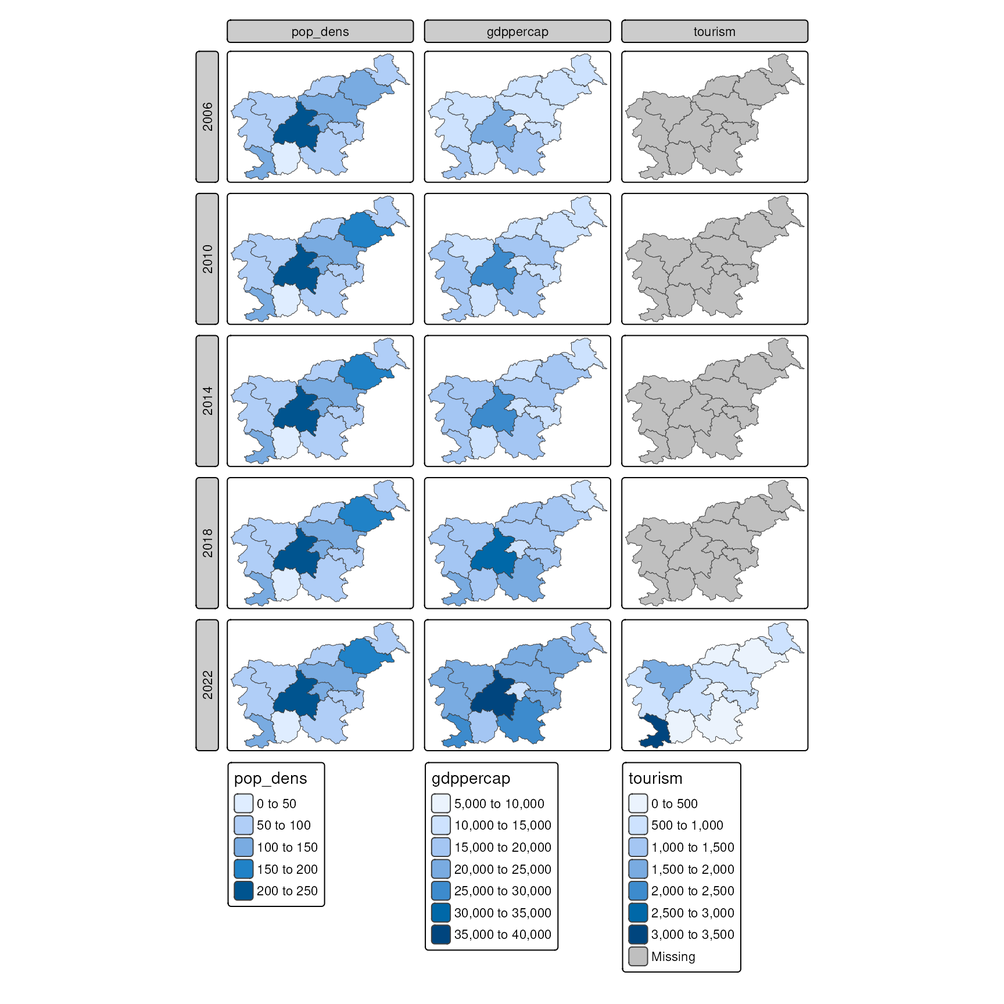
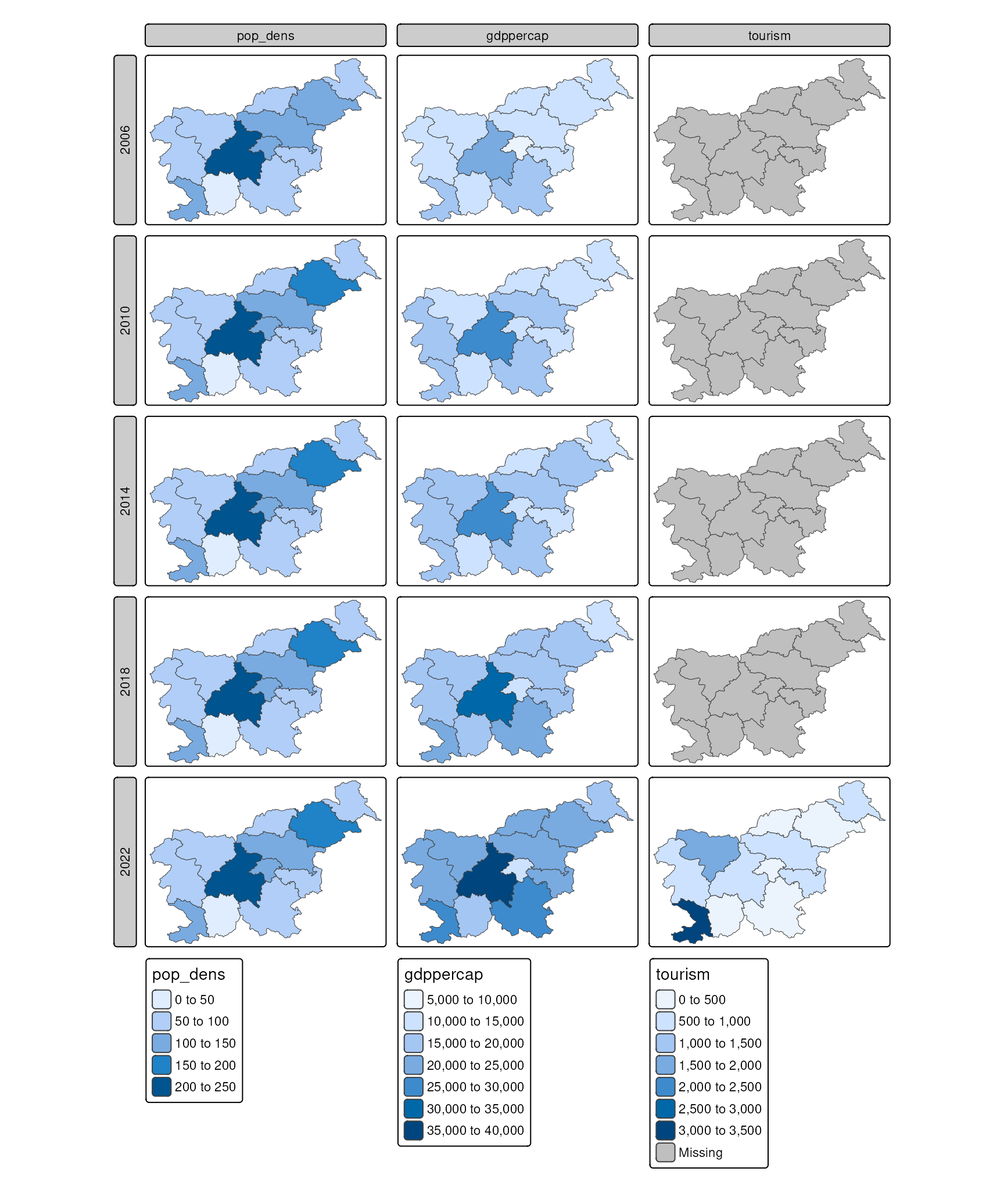
Deploy commit: improves facets code 3 and adds sections e262dc87a8ae26e074a3b7c835bc508db7cef7af

diff --git a/facets.html b/facets.html
@@ -364,8 +364,26 @@ gtag('config', 'G-ER2GMPEJNF', { 'anonymize_ip': true});
 </div>
 </nav><div id="quarto-sidebar-glass" class="quarto-sidebar-collapse-item" data-bs-toggle="collapse" data-bs-target=".quarto-sidebar-collapse-item"></div>
 <!-- margin-sidebar -->
-    <div id="quarto-margin-sidebar" class="sidebar margin-sidebar zindex-bottom">
-        
+    <div id="quarto-margin-sidebar" class="sidebar margin-sidebar">
+        <nav id="TOC" role="doc-toc" class="toc-active"><h2 class="anchored">First Edition</h2>
+  <ul>
+<li><a href="https://geocompx.org/" class="nav-link active" data-scroll-target="https\://geocompx.org/">Visit the geocompx website 🌐</a></li>
+    <li><a href="https://github.com/geocompx/tmap/issues" class="nav-link" data-scroll-target="https\://github.com/geocompx/tmap/issues">Open an issue ❔</a></li>
+    <li><a href="https://discord.gg/PMztXYgNxp" class="nav-link" data-scroll-target="https\://discord.gg/PMztXYgNxp">Chat on Discord 📣</a></li>
+  </ul>
+<hr>
+<h2 id="toc-title">On this page</h2>
+   
+  <ul>
+<li><a href="#specifying-facets" id="toc-specifying-facets" class="nav-link" data-scroll-target="#specifying-facets"><span class="header-section-number">15.1</span> Specifying facets</a></li>
+  <li>
+<a href="#imporance-of-layers-order" id="toc-imporance-of-layers-order" class="nav-link" data-scroll-target="#imporance-of-layers-order"><span class="header-section-number">16</span> Imporance of layers order</a>
+  <ul>
+<li><a href="#facets-types" id="toc-facets-types" class="nav-link" data-scroll-target="#facets-types"><span class="header-section-number">16.1</span> Facets types</a></li>
+  <li><a href="#customizing-facets" id="toc-customizing-facets" class="nav-link" data-scroll-target="#customizing-facets"><span class="header-section-number">16.2</span> Customizing facets</a></li>
+  </ul>
+</li>
+  </ul><div class="toc-actions"><ul><li><a href="https://github.com/geocompx/tmap/edit/main/facets.qmd" class="toc-action"><i class="bi bi-github"></i>Edit this page</a></li></ul></div></nav>
     </div>
 <!-- main -->
 <main class="content" id="quarto-document-content"><header id="title-block-header" class="quarto-title-block default"><nav class="quarto-page-breadcrumbs quarto-title-breadcrumbs d-none d-lg-block" aria-label="breadcrumb"><ol class="breadcrumb"><li class="breadcrumb-item"><a href="./map-projections.html">Expanding the toolbox</a></li><li class="breadcrumb-item"><a href="./facets.html"><span class="chapter-number">15</span>&nbsp; <span class="chapter-title">Facets</span></a></li></ol></nav><div class="quarto-title">
@@ -397,6 +415,8 @@ gtag('config', 'G-ER2GMPEJNF', { 'anonymize_ip': true});
 <!-- two approaches -- variables (e.g., columns) vs values in one variable -->
 <!-- + a mix of both approaches -->
 <!-- should we limit to e.g., 5 years? -->
+<section id="specifying-facets" class="level2" data-number="15.1"><h2 data-number="15.1" class="anchored" data-anchor-id="specifying-facets">
+<span class="header-section-number">15.1</span> Specifying facets</h2>
 <div class="cell" data-layout-align="center">
 <div class="sourceCode" id="cb2"><pre class="downlit sourceCode r code-with-copy"><code class="sourceCode R"><span><span class="fu"><a href="https://r-tmap.github.io/tmap/reference/tm_shape.html">tm_shape</a></span><span class="op">(</span><span class="va">slo_regions</span><span class="op">)</span> <span class="op">+</span></span>
 <span>  <span class="fu"><a href="https://r-tmap.github.io/tmap/reference/tm_polygons.html">tm_polygons</a></span><span class="op">(</span><span class="fu"><a href="https://rdrr.io/r/base/c.html">c</a></span><span class="op">(</span><span class="st">"pop_dens"</span>, <span class="st">"gdppercap"</span>, <span class="st">"tourism"</span><span class="op">)</span><span class="op">)</span></span></code><button title="Copy to Clipboard" class="code-copy-button"><i class="bi"></i></button></pre></div>
@@ -441,6 +461,8 @@ Figure&nbsp;15.3: Facets for multiple variables over time.
 </div>
 </div>
 </div>
+</section><section id="imporance-of-layers-order" class="level1" data-number="16"><h1 data-number="16">
+<span class="header-section-number">16</span> Imporance of layers order</h1>
 <!-- customize -->
 <div class="cell" data-layout-align="center">
 <div class="sourceCode" id="cb5"><pre class="downlit sourceCode r code-with-copy"><code class="sourceCode R"><span><span class="fu"><a href="https://r-tmap.github.io/tmap/reference/tm_shape.html">tm_shape</a></span><span class="op">(</span><span class="va">slo_borders</span><span class="op">)</span> <span class="op">+</span></span>
@@ -454,7 +476,7 @@ Figure&nbsp;15.3: Facets for multiple variables over time.
 <img src="figures/fig-facets4-1.png" class="img-fluid quarto-figure quarto-figure-center figure-img" style="width:100.0%">
 </div>
 <figcaption class="quarto-float-caption-bottom quarto-float-caption quarto-float-fig" id="fig-facets4-caption-0ceaefa1-69ba-4598-a22c-09a6ac19f8ca">
-Figure&nbsp;15.4: Facets for one variable for different region groups.
+Figure&nbsp;16.1: Facets for one variable for different region groups.
 </figcaption></figure>
 </div>
 </div>
@@ -471,7 +493,7 @@ Figure&nbsp;15.4: Facets for one variable for different region groups.
 <img src="figures/fig-facets5-1.png" class="img-fluid quarto-figure quarto-figure-center figure-img" style="width:100.0%">
 </div>
 <figcaption class="quarto-float-caption-bottom quarto-float-caption quarto-float-fig" id="fig-facets5-caption-0ceaefa1-69ba-4598-a22c-09a6ac19f8ca">
-Figure&nbsp;15.5: Facets for one variable limiting the view to a specific region group.
+Figure&nbsp;16.2: Facets for one variable limiting the view to a specific region group.
 </figcaption></figure>
 </div>
 </div>
@@ -484,6 +506,8 @@ Figure&nbsp;15.5: Facets for one variable limiting the view to a specific region
 <span>  <span class="fu"><a href="https://r-tmap.github.io/tmap/reference/tm_shape.html">tm_shape</a></span><span class="op">(</span><span class="va">slo_borders</span><span class="op">)</span> <span class="op">+</span></span>
 <span>  <span class="fu"><a href="https://r-tmap.github.io/tmap/reference/tm_polygons.html">tm_borders</a></span><span class="op">(</span><span class="op">)</span></span></code><button title="Copy to Clipboard" class="code-copy-button"><i class="bi"></i></button></pre></div>
 </div>
+<section id="facets-types" class="level2" data-number="16.1"><h2 data-number="16.1" class="anchored" data-anchor-id="facets-types">
+<span class="header-section-number">16.1</span> Facets types</h2>
 <!-- other facets functions -->
 <!-- tm_facets_wrap(by = "VARS__", nrow = NA, ncol = NA, byrow = TRUE, ...) -->
 <!-- tm_facets_grid(rows = NULL, columns = NULL, pages = NULL, ...) -->
@@ -492,14 +516,15 @@ Figure&nbsp;15.5: Facets for one variable limiting the view to a specific region
 <span>  <span class="fu"><a href="https://r-tmap.github.io/tmap/reference/tm_polygons.html">tm_borders</a></span><span class="op">(</span><span class="op">)</span> <span class="op">+</span></span>
 <span>  <span class="fu"><a href="https://r-tmap.github.io/tmap/reference/tm_shape.html">tm_shape</a></span><span class="op">(</span><span class="va">slo_regions_ts</span><span class="op">)</span> <span class="op">+</span></span>
 <span>  <span class="fu"><a href="https://r-tmap.github.io/tmap/reference/tm_polygons.html">tm_polygons</a></span><span class="op">(</span><span class="st">"gdppercap"</span><span class="op">)</span> <span class="op">+</span></span>
-<span>  <span class="fu"><a href="https://r-tmap.github.io/tmap/reference/tm_facets.html">tm_facets_wrap</a></span><span class="op">(</span>by <span class="op">=</span> <span class="st">"region_group"</span>, ncol <span class="op">=</span> <span class="fl">5</span><span class="op">)</span></span>
-<span><span class="co">#&gt; [plot mode] fit legend/component: Some legend items or map compoments do not</span></span>
-<span><span class="co">#&gt; fit well, and are therefore rescaled.</span></span>
-<span><span class="co">#&gt; ℹ Set the tmap option `component.autoscale = FALSE` to disable rescaling.</span></span></code><button title="Copy to Clipboard" class="code-copy-button"><i class="bi"></i></button></pre></div>
+<span>  <span class="fu"><a href="https://r-tmap.github.io/tmap/reference/tm_facets.html">tm_facets_wrap</a></span><span class="op">(</span>by <span class="op">=</span> <span class="st">"region_group"</span>, nrow <span class="op">=</span> <span class="fl">2</span><span class="op">)</span></span></code><button title="Copy to Clipboard" class="code-copy-button"><i class="bi"></i></button></pre></div>
 <div class="cell-output-display">
-<div class="quarto-figure quarto-figure-center">
-<figure class="figure"><p><img src="figures/facets-9-1.png" class="img-fluid quarto-figure quarto-figure-center figure-img" style="width:100.0%"></p>
-</figure>
+<div id="fig-facets7" class="quarto-float quarto-figure quarto-figure-center anchored" data-fig-align="center">
+<figure class="quarto-float quarto-float-fig figure"><div aria-describedby="fig-facets7-caption-0ceaefa1-69ba-4598-a22c-09a6ac19f8ca">
+<img src="figures/fig-facets7-1.png" class="img-fluid quarto-figure quarto-figure-center figure-img" style="width:100.0%">
+</div>
+<figcaption class="quarto-float-caption-bottom quarto-float-caption quarto-float-fig" id="fig-facets7-caption-0ceaefa1-69ba-4598-a22c-09a6ac19f8ca">
+Figure&nbsp;16.3: Facets for one variable with wrapping.
+</figcaption></figure>
 </div>
 </div>
 </div>
@@ -510,25 +535,13 @@ Figure&nbsp;15.5: Facets for one variable limiting the view to a specific region
 <span>  <span class="fu"><a href="https://r-tmap.github.io/tmap/reference/tm_polygons.html">tm_polygons</a></span><span class="op">(</span><span class="st">"gdppercap"</span><span class="op">)</span> <span class="op">+</span></span>
 <span>  <span class="fu"><a href="https://r-tmap.github.io/tmap/reference/tm_facets.html">tm_facets_grid</a></span><span class="op">(</span>rows <span class="op">=</span> <span class="st">"region_group"</span>, columns <span class="op">=</span> <span class="st">"time"</span><span class="op">)</span></span></code><button title="Copy to Clipboard" class="code-copy-button"><i class="bi"></i></button></pre></div>
 <div class="cell-output-display">
-<div class="quarto-figure quarto-figure-center">
-<figure class="figure"><p><img src="figures/facets-10-1.png" class="img-fluid quarto-figure quarto-figure-center figure-img" style="width:100.0%"></p>
-</figure>
+<div id="fig-facets8" class="quarto-float quarto-figure quarto-figure-center anchored" data-fig-align="center">
+<figure class="quarto-float quarto-float-fig figure"><div aria-describedby="fig-facets8-caption-0ceaefa1-69ba-4598-a22c-09a6ac19f8ca">
+<img src="figures/fig-facets8-1.png" class="img-fluid quarto-figure quarto-figure-center figure-img" style="width:100.0%">
 </div>
-</div>
-</div>
-<!-- tm_xlab and tm_ylab for better labels -->
-<div class="cell" data-layout-align="center">
-<div class="sourceCode" id="cb10"><pre class="downlit sourceCode r code-with-copy"><code class="sourceCode R"><span><span class="fu"><a href="https://r-tmap.github.io/tmap/reference/tm_shape.html">tm_shape</a></span><span class="op">(</span><span class="va">slo_borders</span><span class="op">)</span> <span class="op">+</span></span>
-<span>  <span class="fu"><a href="https://r-tmap.github.io/tmap/reference/tm_polygons.html">tm_borders</a></span><span class="op">(</span><span class="op">)</span> <span class="op">+</span></span>
-<span>  <span class="fu"><a href="https://r-tmap.github.io/tmap/reference/tm_shape.html">tm_shape</a></span><span class="op">(</span><span class="va">slo_regions_ts</span><span class="op">)</span> <span class="op">+</span></span>
-<span>  <span class="fu"><a href="https://r-tmap.github.io/tmap/reference/tm_polygons.html">tm_polygons</a></span><span class="op">(</span><span class="st">"gdppercap"</span><span class="op">)</span> <span class="op">+</span></span>
-<span>  <span class="fu"><a href="https://r-tmap.github.io/tmap/reference/tm_facets.html">tm_facets_grid</a></span><span class="op">(</span>rows <span class="op">=</span> <span class="st">"region_group"</span>, columns <span class="op">=</span> <span class="st">"time"</span><span class="op">)</span> <span class="op">+</span></span>
-<span>  <span class="fu"><a href="https://r-tmap.github.io/tmap/reference/tm_xlab.html">tm_xlab</a></span><span class="op">(</span><span class="st">"Year"</span>, side <span class="op">=</span> <span class="st">"top"</span>, size <span class="op">=</span> <span class="fl">2</span>, space <span class="op">=</span> <span class="fl">1</span><span class="op">)</span> <span class="op">+</span></span>
-<span>  <span class="fu"><a href="https://r-tmap.github.io/tmap/reference/tm_xlab.html">tm_ylab</a></span><span class="op">(</span><span class="st">"Region"</span>, rotation <span class="op">=</span> <span class="fl">90</span>, size <span class="op">=</span> <span class="fl">2</span>, space <span class="op">=</span> <span class="fl">1</span><span class="op">)</span></span></code><button title="Copy to Clipboard" class="code-copy-button"><i class="bi"></i></button></pre></div>
-<div class="cell-output-display">
-<div class="quarto-figure quarto-figure-center">
-<figure class="figure"><p><img src="figures/facets-11-1.png" class="img-fluid quarto-figure quarto-figure-center figure-img" style="width:100.0%"></p>
-</figure>
+<figcaption class="quarto-float-caption-bottom quarto-float-caption quarto-float-fig" id="fig-facets8-caption-0ceaefa1-69ba-4598-a22c-09a6ac19f8ca">
+Figure&nbsp;16.4: Two-dimensional facets for one variable in various region groups over time.
+</figcaption></figure>
 </div>
 </div>
 </div>
@@ -539,6 +552,28 @@ Figure&nbsp;15.5: Facets for one variable limiting the view to a specific region
 <!-- tm_facets_vstack(by = "VARS__", ...) -->
 <!-- tm_facets_pagewise(by = "VARS__", byrow = TRUE, ...) -->
 <!-- tm_facets_flip(...) -->
+</section><section id="customizing-facets" class="level2" data-number="16.2"><h2 data-number="16.2" class="anchored" data-anchor-id="customizing-facets">
+<span class="header-section-number">16.2</span> Customizing facets</h2>
+<!-- tm_xlab and tm_ylab for better labels -->
+<div class="cell" data-layout-align="center">
+<div class="sourceCode" id="cb10"><pre class="downlit sourceCode r code-with-copy"><code class="sourceCode R"><span><span class="fu"><a href="https://r-tmap.github.io/tmap/reference/tm_shape.html">tm_shape</a></span><span class="op">(</span><span class="va">slo_borders</span><span class="op">)</span> <span class="op">+</span></span>
+<span>  <span class="fu"><a href="https://r-tmap.github.io/tmap/reference/tm_polygons.html">tm_borders</a></span><span class="op">(</span><span class="op">)</span> <span class="op">+</span></span>
+<span>  <span class="fu"><a href="https://r-tmap.github.io/tmap/reference/tm_shape.html">tm_shape</a></span><span class="op">(</span><span class="va">slo_regions_ts</span><span class="op">)</span> <span class="op">+</span></span>
+<span>  <span class="fu"><a href="https://r-tmap.github.io/tmap/reference/tm_polygons.html">tm_polygons</a></span><span class="op">(</span><span class="st">"gdppercap"</span><span class="op">)</span> <span class="op">+</span></span>
+<span>  <span class="fu"><a href="https://r-tmap.github.io/tmap/reference/tm_facets.html">tm_facets_grid</a></span><span class="op">(</span>rows <span class="op">=</span> <span class="st">"region_group"</span>, columns <span class="op">=</span> <span class="st">"time"</span><span class="op">)</span> <span class="op">+</span></span>
+<span>  <span class="fu"><a href="https://r-tmap.github.io/tmap/reference/tm_xlab.html">tm_xlab</a></span><span class="op">(</span><span class="st">"Year"</span>, side <span class="op">=</span> <span class="st">"top"</span>, size <span class="op">=</span> <span class="fl">2</span>, space <span class="op">=</span> <span class="fl">1</span><span class="op">)</span> <span class="op">+</span></span>
+<span>  <span class="fu"><a href="https://r-tmap.github.io/tmap/reference/tm_xlab.html">tm_ylab</a></span><span class="op">(</span><span class="st">"Region"</span>, rotation <span class="op">=</span> <span class="fl">90</span>, size <span class="op">=</span> <span class="fl">2</span>, space <span class="op">=</span> <span class="fl">1</span><span class="op">)</span></span></code><button title="Copy to Clipboard" class="code-copy-button"><i class="bi"></i></button></pre></div>
+<div class="cell-output-display">
+<div id="fig-facets9" class="quarto-float quarto-figure quarto-figure-center anchored" data-fig-align="center">
+<figure class="quarto-float quarto-float-fig figure"><div aria-describedby="fig-facets9-caption-0ceaefa1-69ba-4598-a22c-09a6ac19f8ca">
+<img src="figures/fig-facets9-1.png" class="img-fluid quarto-figure quarto-figure-center figure-img" style="width:100.0%">
+</div>
+<figcaption class="quarto-float-caption-bottom quarto-float-caption quarto-float-fig" id="fig-facets9-caption-0ceaefa1-69ba-4598-a22c-09a6ac19f8ca">
+Figure&nbsp;16.5: Two-dimensional facets with labeled axes.
+</figcaption></figure>
+</div>
+</div>
+</div>
 <!-- Raster data -- where to add it in this section: either mix with the other content or after it -->
 <!-- show how to add colors independently to each raster panel -->
 <div class="cell" data-layout-align="center">
@@ -549,12 +584,15 @@ Figure&nbsp;15.5: Facets for one variable limiting the view to a specific region
 <div class="cell" data-layout-align="center">
 <div class="sourceCode" id="cb12"><pre class="downlit sourceCode r code-with-copy"><code class="sourceCode R"><span><span class="fu"><a href="https://r-tmap.github.io/tmap/reference/tm_shape.html">tm_shape</a></span><span class="op">(</span><span class="va">slo_tavg</span><span class="op">)</span> <span class="op">+</span></span>
 <span>  <span class="fu"><a href="https://r-tmap.github.io/tmap/reference/tm_raster.html">tm_raster</a></span><span class="op">(</span><span class="op">)</span> <span class="op">+</span></span>
-<span>  <span class="fu"><a href="https://r-tmap.github.io/tmap/reference/tm_facets.html">tm_facets</a></span><span class="op">(</span>by <span class="op">=</span> <span class="st">"band"</span>, ncol <span class="op">=</span> <span class="fl">4</span><span class="op">)</span></span>
-<span><span class="co">#&gt; [scale] tm_raster:() the data variable assigned to 'col' contains positive and negative values, so midpoint is set to 0. Set 'midpoint = NA' in 'fill.scale = tm_scale_intervals(&lt;HERE&gt;)' to use all visual values (e.g. colors)</span></span></code><button title="Copy to Clipboard" class="code-copy-button"><i class="bi"></i></button></pre></div>
+<span>  <span class="fu"><a href="https://r-tmap.github.io/tmap/reference/tm_facets.html">tm_facets</a></span><span class="op">(</span>by <span class="op">=</span> <span class="st">"band"</span>, ncol <span class="op">=</span> <span class="fl">3</span><span class="op">)</span></span></code><button title="Copy to Clipboard" class="code-copy-button"><i class="bi"></i></button></pre></div>
 <div class="cell-output-display">
-<div class="quarto-figure quarto-figure-center">
-<figure class="figure"><p><img src="figures/facets-13-1.png" class="img-fluid quarto-figure quarto-figure-center figure-img" style="width:100.0%"></p>
-</figure>
+<div id="fig-facets10" class="quarto-float quarto-figure quarto-figure-center anchored" data-fig-align="center">
+<figure class="quarto-float quarto-float-fig figure"><div aria-describedby="fig-facets10-caption-0ceaefa1-69ba-4598-a22c-09a6ac19f8ca">
+<img src="figures/fig-facets10-1.png" class="img-fluid quarto-figure quarto-figure-center figure-img" style="width:100.0%">
+</div>
+<figcaption class="quarto-float-caption-bottom quarto-float-caption quarto-float-fig" id="fig-facets10-caption-0ceaefa1-69ba-4598-a22c-09a6ac19f8ca">
+Figure&nbsp;16.6: Facets for raster data.
+</figcaption></figure>
 </div>
 </div>
 </div>
@@ -564,14 +602,18 @@ Figure&nbsp;15.5: Facets for one variable limiting the view to a specific region
 <span>    col.scale <span class="op">=</span> <span class="fu"><a href="https://r-tmap.github.io/tmap/reference/tm_scale_continuous.html">tm_scale_continuous</a></span><span class="op">(</span>values <span class="op">=</span> <span class="st">"viridis"</span><span class="op">)</span>,</span>
 <span>    col.legend <span class="op">=</span> <span class="fu"><a href="https://r-tmap.github.io/tmap/reference/tm_legend.html">tm_legend</a></span><span class="op">(</span>title <span class="op">=</span> <span class="st">"Temperature (°C)"</span><span class="op">)</span>,</span>
 <span>    col.free <span class="op">=</span> <span class="cn">TRUE</span><span class="op">)</span> <span class="op">+</span></span>
-<span>  <span class="fu"><a href="https://r-tmap.github.io/tmap/reference/tm_facets.html">tm_facets</a></span><span class="op">(</span>by <span class="op">=</span> <span class="st">"band"</span>, ncol <span class="op">=</span> <span class="fl">4</span><span class="op">)</span></span>
+<span>  <span class="fu"><a href="https://r-tmap.github.io/tmap/reference/tm_facets.html">tm_facets</a></span><span class="op">(</span>by <span class="op">=</span> <span class="st">"band"</span>, ncol <span class="op">=</span> <span class="fl">3</span><span class="op">)</span></span>
 <span><span class="co">#&gt; [plot mode] fit legend/component: Some legend items or map compoments do not</span></span>
 <span><span class="co">#&gt; fit well, and are therefore rescaled.</span></span>
 <span><span class="co">#&gt; ℹ Set the tmap option `component.autoscale = FALSE` to disable rescaling.</span></span></code><button title="Copy to Clipboard" class="code-copy-button"><i class="bi"></i></button></pre></div>
 <div class="cell-output-display">
-<div class="quarto-figure quarto-figure-center">
-<figure class="figure"><p><img src="figures/facets-14-1.png" class="img-fluid quarto-figure quarto-figure-center figure-img" style="width:100.0%"></p>
-</figure>
+<div id="fig-facets11" class="quarto-float quarto-figure quarto-figure-center anchored" data-fig-align="center">
+<figure class="quarto-float quarto-float-fig figure"><div aria-describedby="fig-facets11-caption-0ceaefa1-69ba-4598-a22c-09a6ac19f8ca">
+<img src="figures/fig-facets11-1.png" class="img-fluid quarto-figure quarto-figure-center figure-img" style="width:100.0%">
+</div>
+<figcaption class="quarto-float-caption-bottom quarto-float-caption quarto-float-fig" id="fig-facets11-caption-0ceaefa1-69ba-4598-a22c-09a6ac19f8ca">
+Figure&nbsp;16.7: Facets for raster data independent legends.
+</figcaption></figure>
 </div>
 </div>
 </div>
@@ -584,23 +626,19 @@ Figure&nbsp;15.5: Facets for one variable limiting the view to a specific region
 <span>  <span class="fu"><a href="https://r-tmap.github.io/tmap/reference/tm_facets.html">tm_facets</a></span><span class="op">(</span>by <span class="op">=</span> <span class="st">"region_group"</span>, free.coords <span class="op">=</span> <span class="cn">TRUE</span><span class="op">)</span></span>
 <span><span class="co">#&gt; [scale] tm_raster:() the data variable assigned to 'col' contains positive and negative values, so midpoint is set to 0. Set 'midpoint = NA' in 'fill.scale = tm_scale_intervals(&lt;HERE&gt;)' to use all visual values (e.g. colors)</span></span></code><button title="Copy to Clipboard" class="code-copy-button"><i class="bi"></i></button></pre></div>
 <div class="cell-output-display">
-<div class="quarto-figure quarto-figure-center">
-<figure class="figure"><p><img src="figures/facets-15-1.png" class="img-fluid quarto-figure quarto-figure-center figure-img" style="width:100.0%"></p>
-</figure>
+<div id="fig-facets12" class="quarto-float quarto-figure quarto-figure-center anchored" data-fig-align="center">
+<figure class="quarto-float quarto-float-fig figure"><div aria-describedby="fig-facets12-caption-0ceaefa1-69ba-4598-a22c-09a6ac19f8ca">
+<img src="figures/fig-facets12-1.png" class="img-fluid quarto-figure quarto-figure-center figure-img" style="width:100.0%">
+</div>
+<figcaption class="quarto-float-caption-bottom quarto-float-caption quarto-float-fig" id="fig-facets12-caption-0ceaefa1-69ba-4598-a22c-09a6ac19f8ca">
+Figure&nbsp;16.8: Facets with raster data and vector data.
+</figcaption></figure>
 </div>
 </div>
-</div>
-<div class="cell" data-layout-align="center">
-<div class="sourceCode" id="cb15"><pre class="downlit sourceCode r code-with-copy"><code class="sourceCode R"><span><span class="fu"><a href="https://r-tmap.github.io/tmap/reference/tm_shape.html">tm_shape</a></span><span class="op">(</span><span class="va">slo_regions</span>, is.main <span class="op">=</span> <span class="cn">TRUE</span><span class="op">)</span> <span class="op">+</span> </span>
-<span>  <span class="fu"><a href="https://r-tmap.github.io/tmap/reference/tm_polygons.html">tm_borders</a></span><span class="op">(</span><span class="op">)</span> <span class="op">+</span></span>
-<span>  <span class="fu"><a href="https://r-tmap.github.io/tmap/reference/tm_facets.html">tm_facets</a></span><span class="op">(</span>by <span class="op">=</span> <span class="st">"region_group"</span>, free.coords <span class="op">=</span> <span class="cn">TRUE</span><span class="op">)</span> <span class="op">+</span></span>
-<span>  <span class="fu"><a href="https://r-tmap.github.io/tmap/reference/tm_shape.html">tm_shape</a></span><span class="op">(</span><span class="va">slo_elev</span><span class="op">)</span> <span class="op">+</span></span>
-<span>  <span class="fu"><a href="https://r-tmap.github.io/tmap/reference/tm_raster.html">tm_raster</a></span><span class="op">(</span><span class="op">)</span> </span></code><button title="Copy to Clipboard" class="code-copy-button"><i class="bi"></i></button></pre></div>
 </div>
 
 
-
-</main><!-- /main --><script id="quarto-html-after-body" type="application/javascript">
+</section></section></main><!-- /main --><script id="quarto-html-after-body" type="application/javascript">
   window.document.addEventListener("DOMContentLoaded", function (event) {
     const icon = "";
     const anchorJS = new window.AnchorJS();
@@ -1016,7 +1054,7 @@ Figure&nbsp;15.5: Facets for one variable limiting the view to a specific region
     </div>   
     <div class="nav-footer-center">
 <p>Elegant and informative maps with <strong>tmap</strong> by Martijn Tennekes and Jakub Nowosad.</p>
-<div class="toc-actions"><ul><li><a href="https://github.com/geocompx/tmap/edit/main/facets.qmd" class="toc-action"><i class="bi bi-github"></i>Edit this page</a></li></ul></div></div>
+<div class="toc-actions d-sm-block d-md-none"><ul><li><a href="https://github.com/geocompx/tmap/edit/main/facets.qmd" class="toc-action"><i class="bi bi-github"></i>Edit this page</a></li></ul></div></div>
     <div class="nav-footer-right">
       &nbsp;
     </div>

diff --git a/map-projections.html b/map-projections.html
@@ -419,10 +419,10 @@ gtag('config', 'G-ER2GMPEJNF', { 'anonymize_ip': true});
 <span>  <span class="fu"><a href="https://r-tmap.github.io/tmap/reference/tm_crs.html">tm_crs</a></span><span class="op">(</span><span class="st">"+proj=eck4"</span><span class="op">)</span> <span class="op">+</span></span>
 <span>  <span class="fu"><a href="https://r-tmap.github.io/tmap/reference/tm_layout.html">tm_layout</a></span><span class="op">(</span>bg.color <span class="op">=</span> <span class="st">"lightblue"</span>,</span>
 <span>            earth_boundary <span class="op">=</span> <span class="cn">TRUE</span><span class="op">)</span></span></code><button title="Copy to Clipboard" class="code-copy-button"><i class="bi"></i></button></pre></div>
-<div class="cell quarto-layout-panel" data-layout-nrow="2" data-layout-align="center" data-ecbo="false">
+<div class="cell quarto-layout-panel" data-layout-nrow="2" data-ecbo="false" data-layout-align="center">
 <div class="quarto-layout-row">
 <div class="cell-output-display quarto-layout-cell" style="flex-basis: 100.0%;justify-content: center;">
-<div id="fig-mproj12-1" class="quarto-float quarto-figure quarto-figure-center anchored" width="100%" data-fig-align="center">
+<div id="fig-mproj12-1" class="quarto-float quarto-figure quarto-figure-center anchored" data-fig-align="center" width="100%">
 <figure class="quarto-float quarto-float-fig figure"><div aria-describedby="fig-mproj12-1-caption-0ceaefa1-69ba-4598-a22c-09a6ac19f8ca">
 <img src="figures/fig-mproj12-1.png" id="fig-mproj12-1" class="img-fluid quarto-figure quarto-figure-center anchored figure-img" style="width:100.0%">
 </div>
@@ -434,7 +434,7 @@ Figure&nbsp;13.1
 </div>
 <div class="quarto-layout-row">
 <div class="cell-output-display quarto-layout-cell" style="flex-basis: 100.0%;justify-content: center;">
-<div id="fig-mproj12-2" class="quarto-float quarto-figure quarto-figure-center anchored" width="100%" data-fig-align="center">
+<div id="fig-mproj12-2" class="quarto-float quarto-figure quarto-figure-center anchored" data-fig-align="center" width="100%">
 <figure class="quarto-float quarto-float-fig figure"><div aria-describedby="fig-mproj12-2-caption-0ceaefa1-69ba-4598-a22c-09a6ac19f8ca">
 <img src="figures/fig-mproj12-2.png" id="fig-mproj12-2" class="img-fluid quarto-figure quarto-figure-center anchored figure-img" style="width:100.0%">
 </div>

diff --git a/visual-variables.html b/visual-variables.html
@@ -887,7 +887,7 @@ Figure&nbsp;7.10: Example of a map where text sizes represent elevations of the 
 <span>             shape.scale <span class="op">=</span> <span class="fu">tm_scale</span><span class="op">(</span>values <span class="op">=</span> <span class="va">my_icons</span><span class="op">)</span><span class="op">)</span></span></code><button title="Copy to Clipboard" class="code-copy-button"><i class="bi"></i></button></pre></div>
 </div>
 <div class="cell" data-layout-align="center" data-layout-row="2">
-<div id="fig-tmsymshape" class="cell quarto-float quarto-figure quarto-figure-center anchored" data-layout-row="2" data-layout-align="center">
+<div id="fig-tmsymshape" class="cell quarto-float quarto-figure quarto-figure-center anchored" data-layout-align="center" data-layout-row="2">
 <figure class="quarto-float quarto-float-fig figure"><div aria-describedby="fig-tmsymshape-caption-0ceaefa1-69ba-4598-a22c-09a6ac19f8ca">
 <div class="cell-output-display">
 <div id="fig-tmsymshape-1" class="quarto-float quarto-figure quarto-figure-center anchored" data-fig-align="center">

diff --git a/layout.html b/layout.html
@@ -839,7 +839,7 @@ Figure&nbsp;12.9: Impact of the scale argument on the map layout.
 <span><span class="co">#&gt; | map area      6.87 4.84 1.42 |</span></span>
 <span><span class="co">#&gt; --------------------------------</span></span></code><button title="Copy to Clipboard" class="code-copy-button"><i class="bi"></i></button></pre></div>
 <div class="cell-output-display">
-<div id="fig-design-mode" class="quarto-float quarto-figure quarto-figure-center anchored" data-fig-align="center" width="100%">
+<div id="fig-design-mode" class="quarto-float quarto-figure quarto-figure-center anchored" width="100%" data-fig-align="center">
 <figure class="quarto-float quarto-float-fig figure"><div aria-describedby="fig-design-mode-caption-0ceaefa1-69ba-4598-a22c-09a6ac19f8ca">
 <img src="figures/fig-design-mode-1.png" id="fig-design-mode" class="img-fluid quarto-figure quarto-figure-center anchored figure-img" style="width:100.0%">
 </div>
